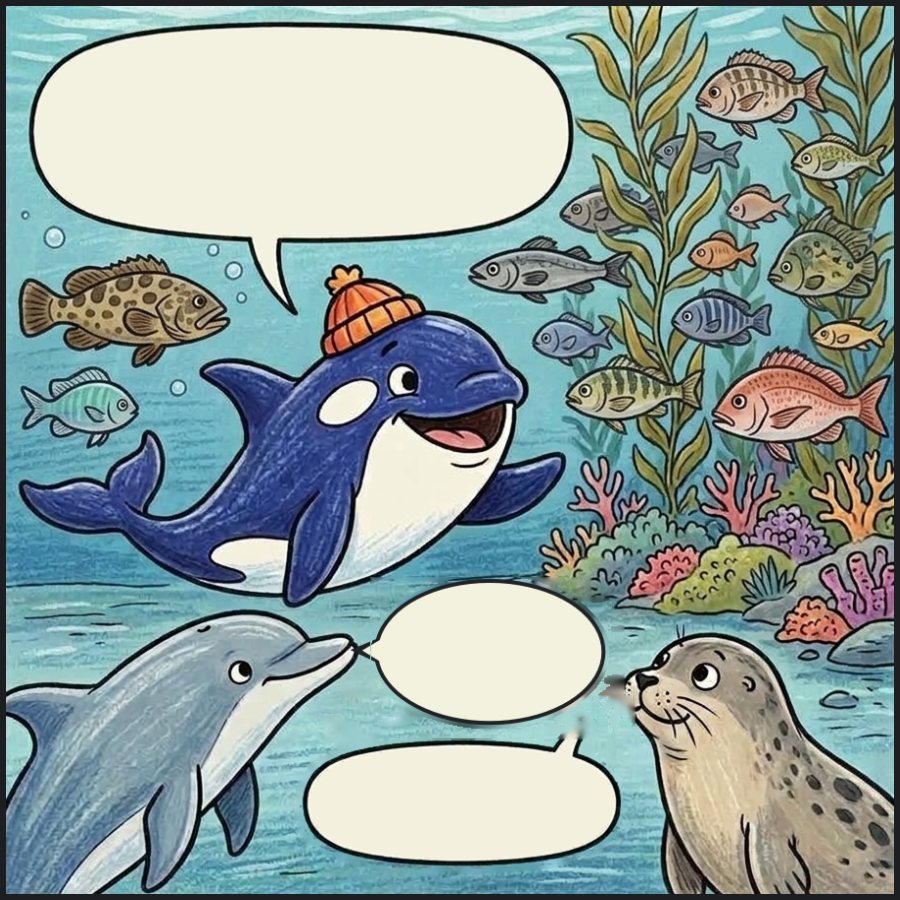
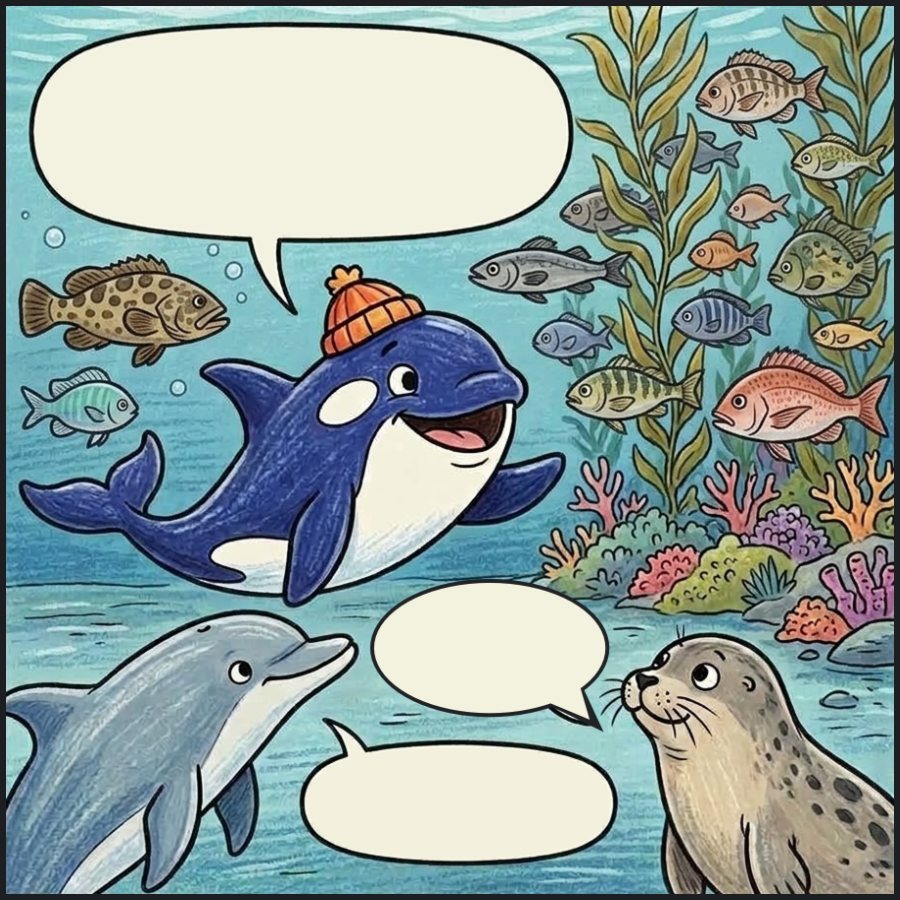
Episode 4: clean bigger top bubble in frame 3, smaller cat text
Claude-Session: https://claude.ai/code/session_01NreAqm5NtqDWekSoZfY2fL

diff --git a/ep4/index.html b/ep4/index.html
@@ -205,8 +205,8 @@ body.show-en .story{gap:2px}
   <section class="panel">
     <div class="story"><p data-line="小真|游到|海里|，" data-en="Xiao Zhen swam into the sea"></p><p data-line="告诉|海豚|和|海豹|。" data-en="and told the dolphin and the seal."></p><p data-line="没想到|，|旁边|的|小鱼|也|听到|了|……" data-en="He didn't expect that the little fish nearby heard too…"></p></div>
     <figure>
-      <img src="sq3.jpg?v=3" alt="Underwater, the orca tells a dolphin and a seal about the restaurant while fish listen nearby" width="900" height="900">
-      <button class="bub" data-who="orca" data-line="我|朋友|开了|新的|鱼|餐厅|！" data-en="My friends opened a new fish restaurant!" data-show="我朋友开了/新的鱼餐厅！" style="left:5.6%;top:4.2%;width:55.8%;height:21.0%;font-size:6.6cqw;line-height:1.25"></button><button class="bub" data-who="dolphin" data-line="哦|……|我们|去|试试|吧|！" data-en="Ooh… let's go and try it!" data-show="哦……/我们去/试试吧！" style="left:43.1%;top:65.9%;width:22.6%;height:13.1%;font-size:4.8cqw;line-height:1.25"></button><button class="bub" data-who="seal" data-line="明天|吗|？" data-en="Tomorrow?" style="left:35.3%;top:83.6%;width:31.5%;height:11.0%;font-size:6.0cqw;line-height:1.25"></button>
+      <img src="sq3.jpg?v=4" alt="Underwater, the orca tells a dolphin and a seal about the restaurant while fish listen nearby" width="900" height="900">
+      <button class="bub" data-who="orca" data-line="我|朋友|开了|新的|鱼|餐厅|！" data-en="My friends opened a new fish restaurant!" data-show="我朋友开了/新的鱼餐厅！" style="left:5.6%;top:4.2%;width:55.8%;height:21.0%;font-size:6.6cqw;line-height:1.25"></button><button class="bub" data-who="dolphin" data-line="哦|…|我们|去|试试|吧|！" data-en="Ooh… let's go and try it!" data-show="哦…我们去/试试吧！" style="left:43.5%;top:66.3%;width:21.8%;height:11.4%;font-size:4.1cqw;line-height:1.3"></button><button class="bub" data-who="seal" data-line="明天|吗|？" data-en="Tomorrow?" style="left:35.2%;top:83.6%;width:31.7%;height:11.0%;font-size:6.0cqw;line-height:1.25"></button>
     </figure>
   </section>
   <section class="panel">
@@ -219,8 +219,8 @@ body.show-en .story{gap:2px}
   <section class="panel">
     <div class="story"><p data-line="小懒猫|看傻了|。" data-en="Little Lazy Cat just stared."></p><p data-line="小林|马上|煮了|一大锅|海带汤|。" data-en="Xiao Lin quickly cooked a big pot of kelp soup."></p><p data-line="小鱼们|都|说|：|“|好喝|！|”" data-en="All the little fish said: “Yummy!”"></p></div>
     <figure>
-      <img src="sq5.jpg?v=3" alt="Fish customers, including a big anglerfish, eat kelp soup while the penguin and cat serve bowls" width="900" height="900">
-      <button class="bub" data-who="fish" data-line="海带汤|真|好喝|！" data-en="The kelp soup is so good!" data-show="海带汤/真好喝！" style="left:20.8%;top:14.6%;width:16.7%;height:10.6%;font-size:4.2cqw;line-height:1.25"></button><button class="bub" data-who="fish" data-line="明天|我|还要|来|！" data-en="I'm coming back tomorrow!" data-show="明天/我还要来！" style="left:40.7%;top:16.1%;width:19.8%;height:11.1%;font-size:4.2cqw;line-height:1.25"></button><button class="bub" data-who="fish" data-line="看起来|好|好吃|！" data-en="It looks so yummy!" data-show="看起来/好好吃！" style="left:64.1%;top:7.8%;width:23.5%;height:12.2%;font-size:5.0cqw;line-height:1.25"></button><button class="bub" data-who="penguin" data-line="海带汤|来了|！" data-en="Here's your kelp soup!" data-show="海带汤/来了！" style="left:76.2%;top:47.0%;width:20.1%;height:12.0%;font-size:5.0cqw;line-height:1.25"></button><button class="bub" data-who="cat" data-line="五号桌|再来|一碗|！" data-en="One more bowl for table five!" data-show="五号桌/再来/一碗！" style="left:41.4%;top:62.7%;width:13.3%;height:12.1%;font-size:4.2cqw;line-height:1.25"></button>
+      <img src="sq5.jpg?v=4" alt="Fish customers, including a big anglerfish, eat kelp soup while the penguin and cat serve bowls" width="900" height="900">
+      <button class="bub" data-who="fish" data-line="海带汤|真|好喝|！" data-en="The kelp soup is so good!" data-show="海带汤/真好喝！" style="left:20.8%;top:14.6%;width:16.7%;height:10.6%;font-size:4.2cqw;line-height:1.25"></button><button class="bub" data-who="fish" data-line="明天|我|还要|来|！" data-en="I'm coming back tomorrow!" data-show="明天/我还要来！" style="left:40.7%;top:16.1%;width:19.8%;height:11.1%;font-size:4.2cqw;line-height:1.25"></button><button class="bub" data-who="fish" data-line="看起来|好|好吃|！" data-en="It looks so yummy!" data-show="看起来/好好吃！" style="left:64.1%;top:7.8%;width:23.5%;height:12.2%;font-size:5.0cqw;line-height:1.25"></button><button class="bub" data-who="penguin" data-line="海带汤|来了|！" data-en="Here's your kelp soup!" data-show="海带汤/来了！" style="left:76.2%;top:47.0%;width:20.1%;height:12.0%;font-size:5.0cqw;line-height:1.25"></button><button class="bub" data-who="cat" data-line="五号桌|再来|一碗|！" data-en="One more bowl for table five!" data-show="五号桌/再来/一碗！" style="left:41.4%;top:62.7%;width:13.3%;height:12.1%;font-size:3.6cqw;line-height:1.25"></button>
     </figure>
   </section>
   <section class="panel">
